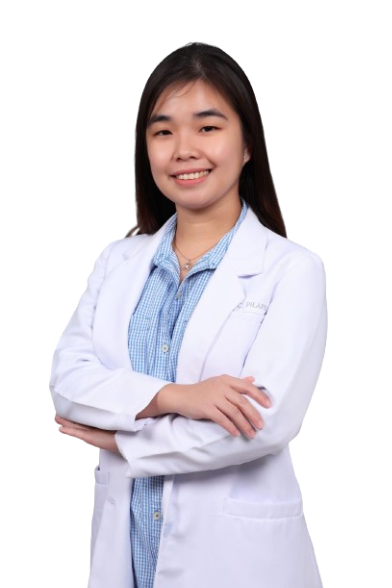
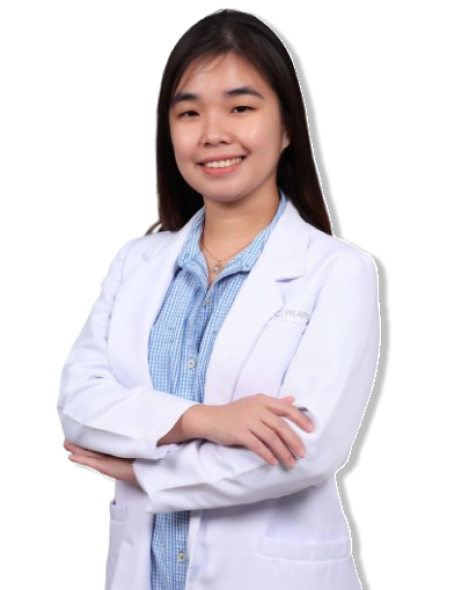
about update

diff --git a/about.html b/about.html
@@ -3,20 +3,42 @@
     <head>
         <style>
             #box {
-                top: 90px;
+                top: 160px;
                 left: 40px;
                 width:1380px;
-                height:550px;
+                height:720px;
                 background:white;
                 position:fixed;
                 justify-content: center;
                 align-items: center;
             }
+            #name {
+                position:fixed;
+                left: 300px;
+                top: 40px;
+            }
+
+            #doc {
+                position: relative;
+                top: 60px;
+            }
+
+            #inner {
+                background: #666666;
+                position: relative;
+                top: 160px;
+                left: 40px;
+                width:980px;
+                height:420px;
+            }
         </style>
     </head>
     <body style="background-color: #B8DDED;">
+        <img id="name" src="images/name.png">
         <div id ="box">
-            <style> </style>
+            <img id="doc" src="images/doctor.png">
+            <div id="inner">
+                 </div>
         </div>
     </body>
 </html>
